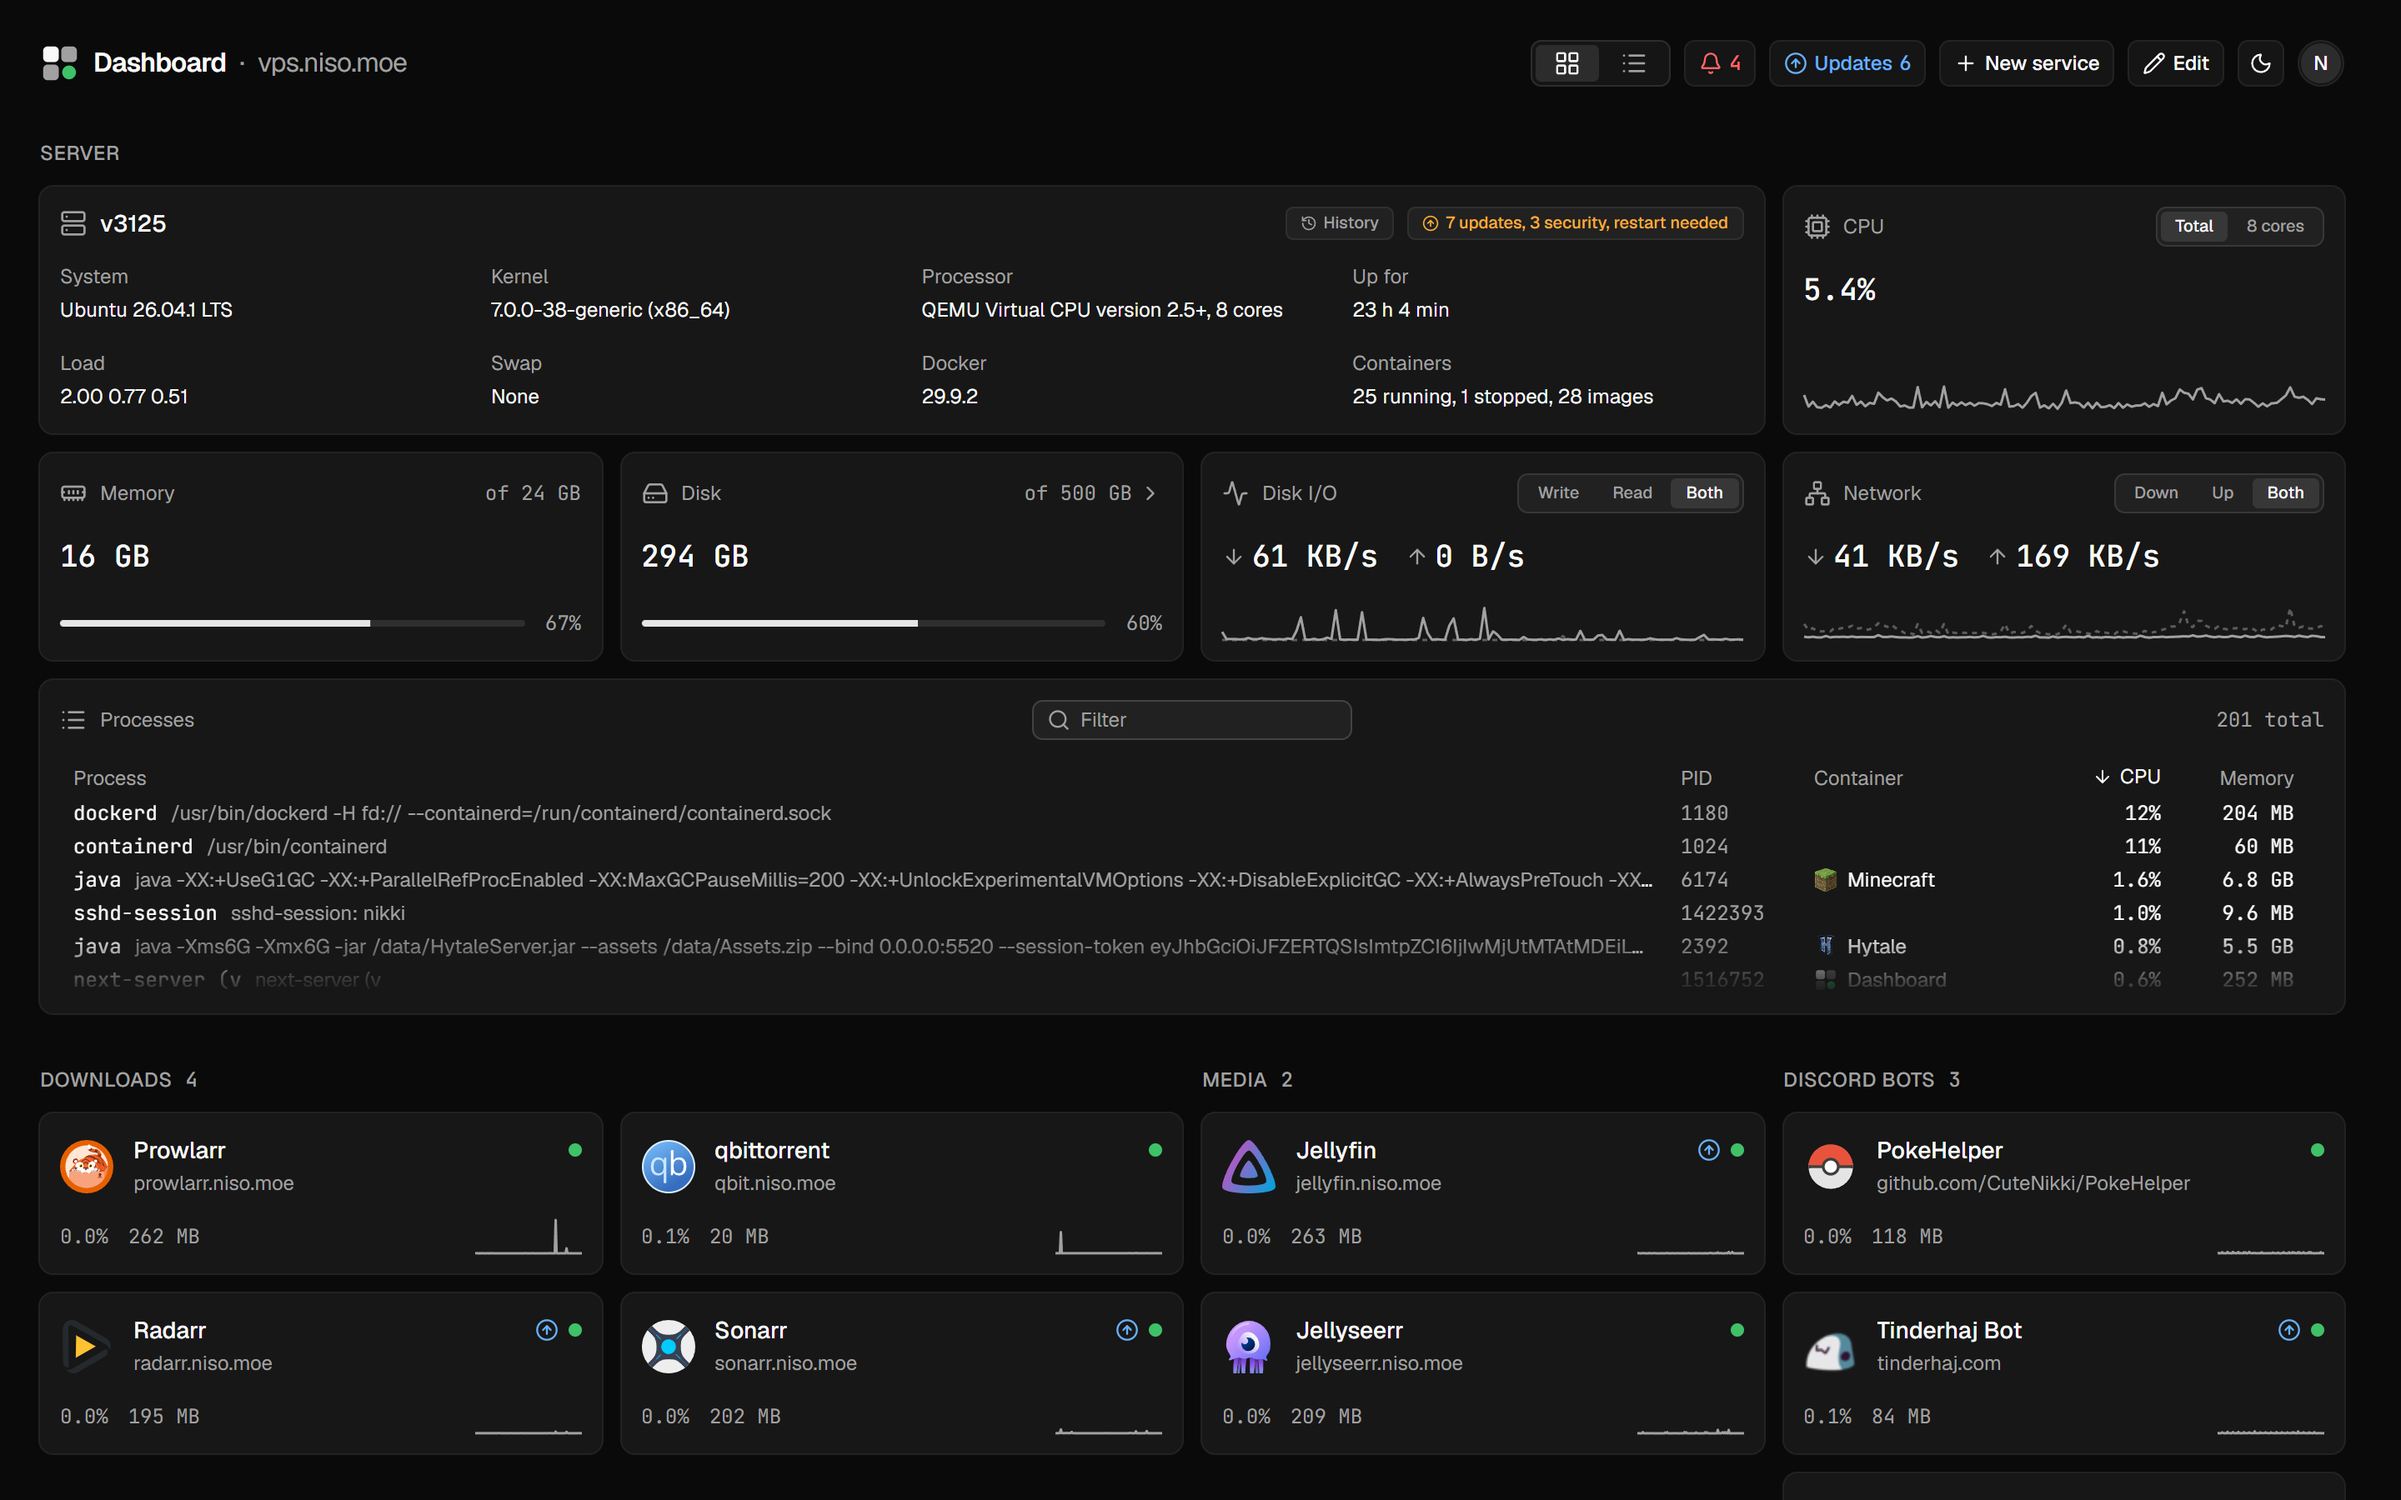
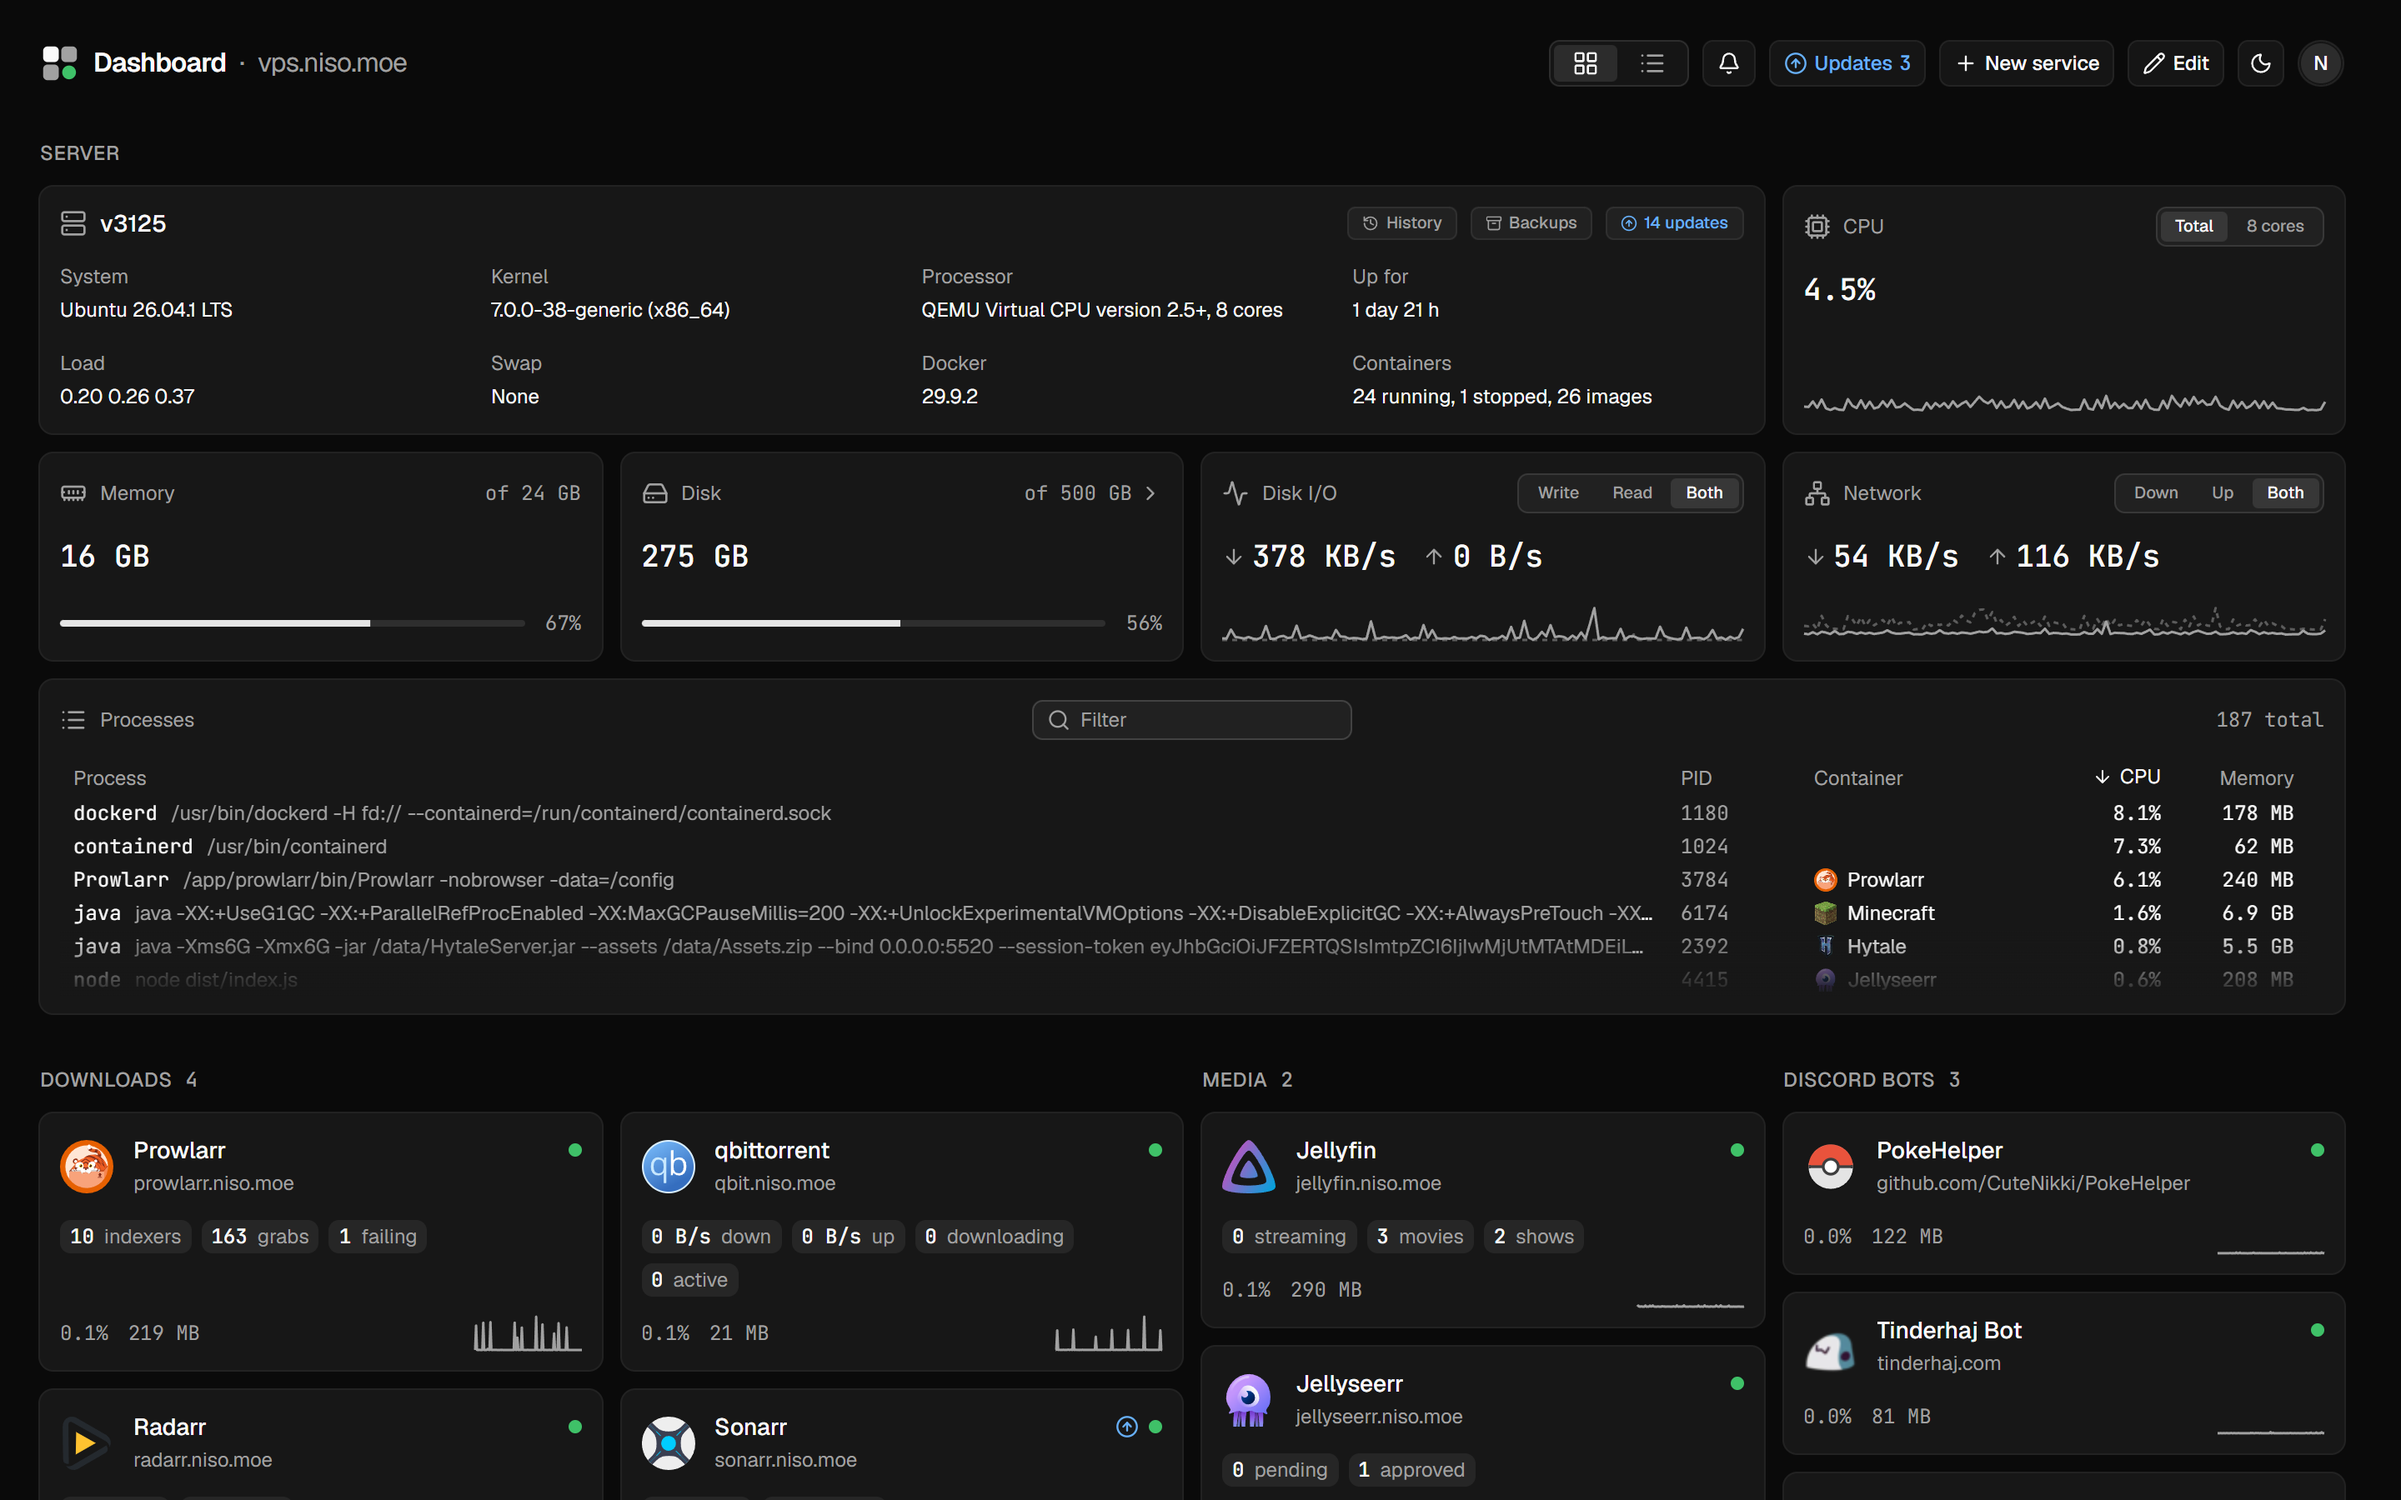
docs: how the dashboard is arranged, with pictures of a tile and a section resized, the dashboard again with its tiles' numbers, and the list reordered

diff --git a/README.md b/README.md
@@ -8,7 +8,7 @@ as a tile, with its status, usage and live numbers, and a window to run it
 from: logs and console, its files in an editor, its git history, and one click
 to redeploy. New services come from templates and get a site in Caddy.
 
-![The dashboard: the server's stats above, every service below as a tile, grouped](docs/screenshots/dashboard.png)
+![The dashboard: the server's stats above, every service below as a tile, grouped, each with its app's numbers: indexers and grabs in Prowlarr, what's downloading in qBittorrent, movies and shows in Jellyfin](docs/screenshots/dashboard.png)
 
 - **Everything on the server, at a glance.** CPU, memory, disk, network and
   processes, then every container in groups, each with a sparkline and the
@@ -47,6 +47,51 @@ to redeploy. New services come from templates and get a site in Caddy.
   servers, a housemate who checks on the media.
 
 ## A closer look
+
+### Arranging it
+
+**Edit** in the header turns the dashboard into a grid to arrange. Each tile
+gets a tab on its top edge to drag it by and a knob on its corner to resize it
+by, and each section, the server's and every group's, gets the same two at the
+end of its heading. A click on a tile while editing opens its settings: its
+name, icon, group, addresses, and whether it's hidden.
+
+![Editing the dashboard: Prowlarr dragged out to two columns and two rows, a badge saying 2 × 2, its CPU now a graph of its own, and the tiles it grew into pushed down](docs/screenshots/arranging.png)
+
+- **A grid of columns.** The page has a column for about every 300 pixels of
+  screen: one on a phone, four on a 1440-pixel laptop, eight from 2496 pixels
+  up. Each row is at least a tile tall, and taller when what's in it needs it.
+- **Resizing a tile.** Its corner knob snaps to whole columns and rows, up to
+  its section's width and six rows tall, with its size, as 2 × 2, on a badge
+  while it's dragged. The tiles it grows into are pushed down.
+- **What a size shows.** A tile more than a row tall draws its CPU, or a
+  website's response time, as a graph on a row of its own; a wider one draws
+  its sparkline wider. The server's tiles put their details in as many columns
+  as their width has room for, and stretch their graphs to the height they're
+  given.
+- **Moving a tile.** A tile is dragged by its tab, or with a mouse from
+  anywhere on it, and lands where it's let go, pushing down whatever it lands
+  on. Nothing moves up into the room it left, so a gap stays where it's put.
+  Dropped in another group's section, the service joins that group; the
+  server's tiles stay in the server's section.
+- **Sections.** Sections sit on the page's grid as tiles sit in them. A
+  narrower section lays its tiles out again in the columns it has left, so two
+  narrow ones can sit side by side, and a taller one spans the rows of the
+  sections stacked beside it. No empty rows are left between sections.
+
+![Downloads narrowed to one column while it's resized, 1 × 1 on its heading, its four tiles laid out one under another](docs/screenshots/arranging-section.png)
+
+- **Each width its own.** Every number of columns keeps an arrangement of its
+  own, so arranging on a laptop leaves the phone's as it was. A width that's
+  never been arranged starts from the nearest one that has, the wider on a
+  tie: the same tiles in the same order and sizes, packed into the columns it
+  has. A service started since goes at the bottom.
+- **Keyboard and phone.** From a tile's or section's tab, the arrow keys move
+  it a cell at a time, and with Shift resize it. On a phone, holding a tile for
+  a moment picks it up, so a swipe still scrolls; its tab and knob take it at
+  once.
+
+Each change is saved as it's made, for everyone who sees the dashboard.
 
 ### A service's window
 
@@ -184,6 +229,15 @@ Every view in either theme, as the system has it or picked by hand. The list
 puts each service on a row, filtered by group.
 
 ![The list view in the light theme, filtered to the Downloads group](docs/screenshots/list-light.png)
+
+While editing, the list's rows are dragged by the handles at their start, to
+another place or another group, and groups by their headings, each with its
+rows. The list makes room where it's going as it's dragged, and its copy
+follows the pointer; Escape puts it back. From a handle, Space picks it up and
+the arrow keys move it. The list keeps one order for every screen, apart from
+the tiles' arrangements.
+
+![Editing the list: Tinderhaj Bot dragged into Downloads, the list making room for it under Prowlarr](docs/screenshots/list-reorder.png)
 
 ### On a phone
 
